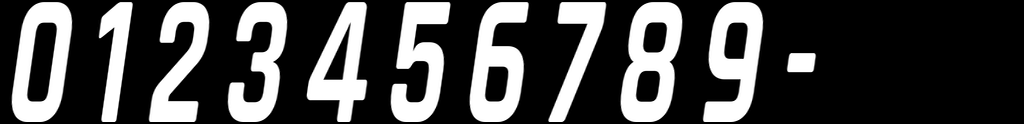
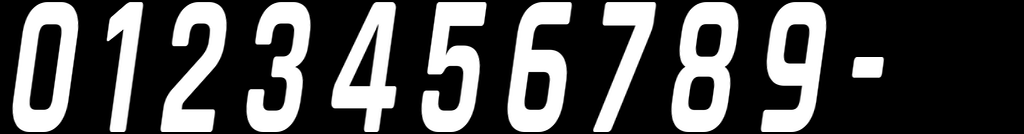
Amplía las cifras de horas y minutos de Stride
Aumenta cada línea de 162 x 120 a 176 x 130 píxeles y ajusta fecha, pie y columna lateral para conservar la separación y los accesos nativos. Mantiene inclinación, contorno y colores.

Compilación sin avisos, cuatro pruebas con las 1.440 horas y las cajas de fecha y tiempo, diagnóstico de memoria normal y pruebas de herramientas correctos. Documentación actualizada; captura visual pendiente.

diff --git a/watchfaces/stride-digital/tools/generate_fonts.py b/watchfaces/stride-digital/tools/generate_fonts.py
@@ -97,7 +97,7 @@ def generate(name: str, size: int, tabular: bool = False, slant: float = 0,
 
 
 if __name__ == "__main__":
-    generate("Time", 186, tabular=True, slant=8, characters="0123456789-")
-    generate("TimeOutline", 186, tabular=True, slant=8, outline=True, characters="0123456789-")
+    generate("Time", 202, tabular=True, slant=8, characters="0123456789-")
+    generate("TimeOutline", 202, tabular=True, slant=8, outline=True, characters="0123456789-")
     generate("Value", 46)
     generate("Compact", 29)

diff --git a/watchfaces/stride-digital/DESIGN.md b/watchfaces/stride-digital/DESIGN.md
@@ -15,7 +15,7 @@ colors:
   sun: "#DAB779"
   low: "#DF827A"
 typography:
-  display: {fontFamily: StrideRajdhaniNumeric, fontSize: "120px", fontFeature: "Tabular digits"}
+  display: {fontFamily: StrideRajdhaniNumeric, fontSize: "130px", fontFeature: "Tabular digits"}
   value: {fontFamily: StrideRajdhaniNumeric, fontSize: "30px"}
   compact: {fontFamily: StrideRajdhaniNumeric, fontSize: "19px"}
   label: {fontFamily: RobotoCondensedRegular, fontSize: "16px"}
@@ -78,10 +78,10 @@ los BMFont `Time`, `TimeOutline`, `Value` y `Compact`; se cargan una vez en `lay
 El TTF, la licencia y la procedencia permanecen en `resources/fonts/`.
 
 Los tamaños del frontmatter son alturas finales recortadas a la tinta numérica.
-`Time` y `TimeOutline` se generan desde 186 px con dígitos tabulares: cada pareja mide 162 px,
+`Time` y `TimeOutline` se generan desde 202 px con dígitos tabulares: cada pareja mide 176 px,
 incluidas `11` y `88`. Se muestran horas sobre minutos, sin dibujar los
 dos puntos. La inclinación de 8° se aplica tras condensar la tinta dentro de
-la celda de 81 px. `TimeOutline` genera un contorno interior nominal de 3 px
+la celda de 88 px. `TimeOutline` genera un contorno interior nominal de 3 px
 por erosión de 7 × 7, sin ampliar cajas ni avances. Las horas superponen el
 contorno lima al relleno oscuro; los minutos usan solo el relleno blanco.
 Las dos líneas conservan su posición y anchura al cambiar la hora.
@@ -93,6 +93,8 @@ en el frontmatter. Se conservan los recursos `Value` y `Compact`.
 
 Las pruebas recorren las 1.440 horas con ambas fuentes y comprueban las esquinas de sus cajas
 dentro del radio 193, con separación mínima de ocho píxeles entre líneas.
+También comprueban que las esquinas de la hora no activen otra complicación
+y que fecha, temperatura negativa y lluvia al 100% quepan en el círculo.
 Verifican medidas del motor, no rasterizado ni legibilidad en pantalla.
 
 ## Layout
@@ -103,14 +105,14 @@ Las medidas se aplican mediante `StrideTheme`.
 
 | Elemento | Posición o medida en píxeles |
 | --- | --- |
-| Fecha | Centro (149, 43) |
+| Fecha | Centro (149, 39) |
 | Batería | Icono desde (252, 52); porcentaje centrado en (297, 58) |
-| Horas y minutos | Centros (130, 131) y (130, 259) |
-| Columna de datos | Cifras centradas en x = 297, con ancho disponible de 84; y = 107, 192 y 277; iconos centrados en x = 242 |
-| Rótulos | Centro x = 284, ancho de 94; 27 px bajo cada cifra |
-| Barras | Origen x = 242; y = 151 para pasos y 236 para Body Battery; dimensiones en los tokens de componentes |
-| Tiempo y lluvia | Línea central y = 344; condición x = 118, temperatura x = 160, gota x = 218 y lluvia x = 260 |
-| Separador meteorológico | x = 195, de y = 332 a 356 |
+| Horas y minutos | Centros (146, 127) y (146, 265) |
+| Columna de datos | Cifras centradas en x = 303, con ancho disponible de 84; y = 107, 192 y 277; iconos centrados en x = 248 |
+| Rótulos | Centro x = 290, ancho de 94; 27 px bajo cada cifra |
+| Barras | Origen x = 248; y = 151 para pasos y 236 para Body Battery; dimensiones en los tokens de componentes |
+| Tiempo y lluvia | Línea central y = 352; condición x = 118, temperatura x = 160, gota x = 218 y lluvia x = 260 |
+| Separador meteorológico | x = 195, de y = 340 a 364 |
 
 No hay separadores entre la hora y la columna, ni entre los tres datos.
 La columna y las barras tienen zonas de pulsación propias, recortadas
@@ -163,7 +165,7 @@ Cubren formatos, pulso, eventos, destinos, cada píxel de las barras, las
 1.440 horas con las dos fuentes, ancho tabular, iconos y dibujo con ausencias
 y extremos. Este último
 usa un búfer de 1 × 1. El diagnóstico de dibujo en el DC completo, con el
-límite normal, registra 16.472 bytes usados, 110.408 libres y 126.880 totales,
+límite normal, registra 16.464 bytes usados, 110.416 libres y 126.880 totales,
 sin errores de ejecución. Sus datos son estados de prueba.
 
 La revisión independiente final no detectó errores materiales de código,

diff --git a/watchfaces/stride-digital/PRODUCT.md b/watchfaces/stride-digital/PRODUCT.md
@@ -22,7 +22,9 @@ al pie. Las medidas y los recursos vigentes se documentan en `DESIGN.md`.
 El ajuste del 22/10/2026 conserva esa composición y toma como referencia las
 esferas de las imágenes oficiales de Forerunner 970, Venu 4 y fēnix 9:
 inclinación, contraste entre contorno y relleno, iconos compactos y barras
-segmentadas. Las fuentes y los iconos de Stride siguen siendo propios.
+segmentadas. Las fuentes y los iconos de Stride siguen siendo propios. Cada línea de
+la hora mide 176 × 130 px; la fecha, el pie y la columna dejan espacio
+a las cifras ampliadas.
 Las imágenes y su procedencia están en `.impeccable/references/README.md`;
 son referencias de producto, no capturas de Stride ni recursos compilados.
 
@@ -59,7 +61,7 @@ segmentadas, los iconos y las cajas de las 1.440 horas dentro del círculo para
 y extremos se ejecuta en un búfer de 1 × 1; no valida su aspecto.
 
 El diagnóstico en el DC completo, con el límite normal de memoria, registra
-16.472 bytes usados, 110.408 libres y 126.880 totales, sin errores de ejecución.
+16.464 bytes usados, 110.416 libres y 126.880 totales, sin errores de ejecución.
 Estos estados de prueba no representan lecturas reales. La app está cargada
 en el simulador; se han inspeccionado los atlas `Time.png` y `TimeOutline.png`. No se obtuvo
 captura: Computer Use no dispone de canal nativo. Quedan pendientes la revisión

diff --git a/watchfaces/stride-digital/resources/fonts/README.md b/watchfaces/stride-digital/resources/fonts/README.md
@@ -8,10 +8,10 @@ Origen: https://github.com/google/fonts/tree/main/ofl/rajdhani
 `tools/generate_fonts.py` genera cuatro recursos BMFont propios. Reduce al 80%
 el ancho de las cifras, mantiene la línea base y recorta la caja vertical a
 la tinta numérica para centrarla de forma estable. `Time` se genera desde
-186 px y tiene 120 px de altura final. La hora se inclina 8°: antes del sesgo
-se condensa la tinta para mantenerla dentro de su celda de 81 px. Sus dígitos
+202 px y tiene 130 px de altura final. La hora se inclina 8°: antes del sesgo
+se condensa la tinta para mantenerla dentro de su celda de 88 px. Sus dígitos
 son tabulares: comparten avance y se centran en su celda; `11` y `88` miden
-lo mismo (162 px). `TimeOutline` repite la geometría y resta una erosión
+lo mismo (176 px). `TimeOutline` repite la geometría y resta una erosión
 de 7 × 7 para generar un contorno interior nominal de 3 px, sin ampliar
 cajas ni avances. Las horas combinan relleno oscuro con ese contorno lima;
 los minutos usan `Time` blanco. Así las dos líneas mantienen el ancho al

diff --git a/watchfaces/stride-digital/AUDIT.md b/watchfaces/stride-digital/AUDIT.md
@@ -1,11 +1,12 @@
 # Auditoría de Stride Digital
 
 Estado del 22/10/2026: el ajuste inspirado en imágenes oficiales de Garmin
-mantiene la composición resuelta el día anterior. Añade hora inclinada con
+mantiene la composición resuelta el día anterior. Cada línea de la hora mide
+176 × 130 px tras el retoque de tamaño. Añade hora inclinada con
 horas de contorno lima y minutos blancos, iconos vectoriales propios y barras
 de diez segmentos; Body Battery y lluvia usan cian contenido. Compilación
 con avisos y cuatro pruebas en `fr170` superadas. El diagnóstico en el DC
-completo registra 16.472 de 126.880 bytes usados, sin errores de ejecución.
+completo registra 16.464 de 126.880 bytes usados, sin errores de ejecución.
 Se inspeccionaron los atlas `Time.png` y `TimeOutline.png`, además de las
 referencias oficiales guardadas. Sigue pendiente una captura real de Stride
 a 390 × 390: Computer Use no dispone de canal nativo. También queda pendiente

diff --git a/watchfaces/stride-digital/AGENTS.md b/watchfaces/stride-digital/AGENTS.md
@@ -15,7 +15,7 @@ Lee [las instrucciones comunes](../../AGENTS.md), PRODUCT.md y DESIGN.md.
 - Cifras deportivas propias en `resources/fonts/`; regenerar con
   `python tools/generate_fonts.py`. Mantener licencia, horas de relleno oscuro
   y contorno lima, minutos blancos, pasos lima y Body Battery cian contenido.
-  `Time` y `TimeOutline` usan dígitos tabulares inclinados 8°, de 120 px de
+  `Time` y `TimeOutline` usan dígitos tabulares inclinados 8°, de 130 px de
   altura final; el contorno interior nominal de 3 px no amplía sus cajas.
   `Value` y `Compact`
   conservan 30 y 19 px. Cambiar medidas y colores en `StrideTheme` y mantener
